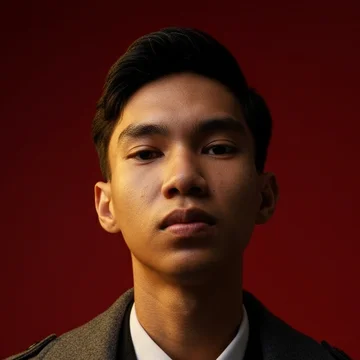
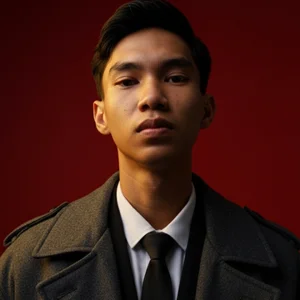
Halaman link: foto profil potongan B (kepala, bahu, dasi)
Claude-Session: https://claude.ai/code/session_012CAGJkYUHsEMWwfJLfAKuZ

diff --git a/linkbio/public/index.html b/linkbio/public/index.html
@@ -58,7 +58,7 @@ footer{margin-top:10px;text-align:center;font-size:12.5px;color:var(--muted);max
 <body>
 <button class="theme" id="theme" type="button" aria-label="Ganti tema terang/gelap">🌙</button>
 <main>
-  <div class="av"><img class="foto" src="img/foto.webp" alt="Foto Sultan Amra" width="120" height="120"><img class="badge" src="img/icon-192.png" alt="Logo ChartFlow" width="38" height="38"></div>
+  <div class="av"><img class="foto" src="img/foto.webp?v=2" alt="Foto Sultan Amra" width="120" height="120"><img class="badge" src="img/icon-192.png" alt="Logo ChartFlow" width="38" height="38"></div>
   <h1>Sultan Amra, S.IP.</h1>
   <p class="by">Pembuat <b>ChartFlow</b></p>
   <p class="tag">Screener saham BEI, Wall Street, dan kripto berbasis data. Aturannya terbuka dan diuji ke masa lalu.</p>
